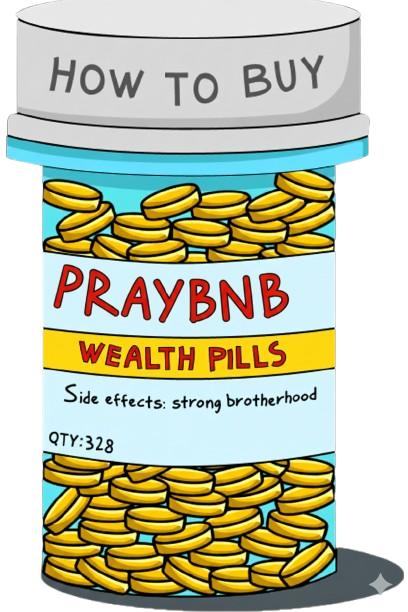
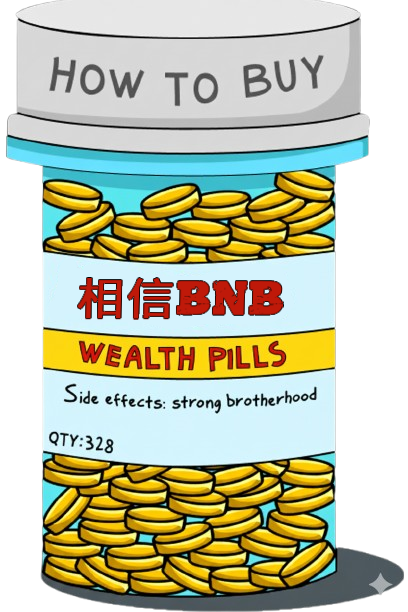
update

Changed region(s): [[0.1176, 0.4346, 0.7059, 0.5278]]

diff --git a/index.html b/index.html
@@ -81,7 +81,7 @@
               </h1>
               <div class="hero__actions">
                 <a
-                  href="http://dextools.io/app/bnb/pair-explorer/0x0843c0190264514cE6B981d1A0dc5f6A707AB11B"
+                  href="https://pancakeswap.finance/swap?inputCurrency=BNB&outputCurrency=0xTBA"
                   target="_blank"
                   class="hero__button action-hover"
                 >
@@ -89,14 +89,14 @@
                 </a>
                 <div class="hero__social">
                   <a
-                    href="https://x.com/i/communities/1979014133665403158"
+                    href="https://x.com/TrustBNB_cz"
                     target="_blank"
                     class="hero__social-item action-hover"
                   >
                     <img src="img/hero/x.svg" alt="X" />
                   </a>
                   <a
-                    href="https://x.com/i/communities/1979014133665403158"
+                    href="https://t.me/TrustBNB_cz"
                     target="_blank"
                     class="hero__social-item action-hover"
                   >
@@ -108,10 +108,6 @@
             <div class="hero__image">
               <div class="hero__image-body">
                 <img src="img/hero/01.png" alt="Image" />
-                <a
-                  target="_blank"
-                  href="http://dextools.io/app/bnb/pair-explorer/0x0843c0190264514cE6B981d1A0dc5f6A707AB11B"
-                ></a>
               </div>
             </div>
           </div>
@@ -194,14 +190,8 @@
                 <img src="img/about/title.svg" alt="ABOUT" />
               </h2>
               <div class="about__text">
-                You've surely seen that familiar yellow hand gesture.<br />
-                It represents recognition for support, appreciation for
-                collaboration, and respect for the community. This gesture has
-                transcended language barriers, becoming a unique "universal
-                language" within the crypto space. Gratitude Coin materializes
-                this spirit, imprinting it onto the BNB Smart Chain (BSC),
-                providing a vehicle for all who feel this gratitude to share and
-                spread positive emotions.
+                TrustBNB Token is built on the belief that blockchain should eliminate blind trust, not require it.
+                While most “real-world asset” tokens depend on third parties, custodians, and off-chain promises, TrustBNB focuses on verifiable trust. Every process — from issuance to collateral to redemption — is transparent, auditable, and governed by code, not by “trust me bro” institutions.
               </div>
             </div>
           </div>
@@ -226,7 +216,7 @@
               <div class="how__item-body">
                 <h3>2</h3>
                 <p>
-                  Connect to a DEX like Uniswap, choose MetaMask, select BNB,
+                  Connect to a DEX like PancakeSwap, choose MetaMask, select BNB,
                   paste the $相信BNB contract address, and click 'Swap' or
                   'Exchange,' confirming in MetaMask.
                 </p>
@@ -312,7 +302,7 @@
                   <h2 class="top-join__main-title">相信BNB</h2>
                   <div class="top-join__main-actions">
                     <a
-                      href="https://app.uniswap.org/#/swap?inputCurrency=eth&outputCurrency=0x79801ac51d18543579d26c5b392581d17b273b89&chain=mainnet"
+                      href="https://pancakeswap.finance/swap?inputCurrency=BNB&outputCurrency=0xTBA"
                       target="_blank"
                       class="top-join__main-button"
                     >
@@ -320,14 +310,14 @@
                     </a>
                     <div class="top-join__main-social">
                       <a
-                        href="https://x.com/BroCoinX"
+                        href="https://x.com/TrustBNB_cz"
                         target="_blank"
                         class="top-join__main-social-item"
                       >
                         <img src="img/hero/x.svg" alt="X" />
                       </a>
                       <a
-                        href="https://t.me/brocoin_community"
+                        href="https://t.me/TrustBNB_cz"
                         target="_blank"
                         class="top-join__main-social-item"
                       >
@@ -385,7 +375,7 @@
                 </div>
                 <div class="top-join__bottom-social">
                   <a
-                    href="https://x.com/i/communities/1979014133665403158"
+                    href="https://t.me/TrustBNB_cz"
                     target="_blank"
                     class="top-join__bottom-social-item"
                   >
@@ -405,7 +395,7 @@
                     </svg>
                   </a>
                   <a
-                    href="https://x.com/i/communities/1979014133665403158"
+                    href="https://x.com/TrustBNB_cz"
                     target="_blank"
                     class="top-join__bottom-social-item"
                   >
@@ -449,7 +439,7 @@
                     </svg>
                   </a> -->
                   <a
-                    href="http://dextools.io/app/bnb/pair-explorer/0x0843c0190264514cE6B981d1A0dc5f6A707AB11B"
+                    href="http://dextools.io/app/bnb/pair-explorer/pairaddress"
                     target="_blank"
                     class="top-join__bottom-social-item"
                   >
